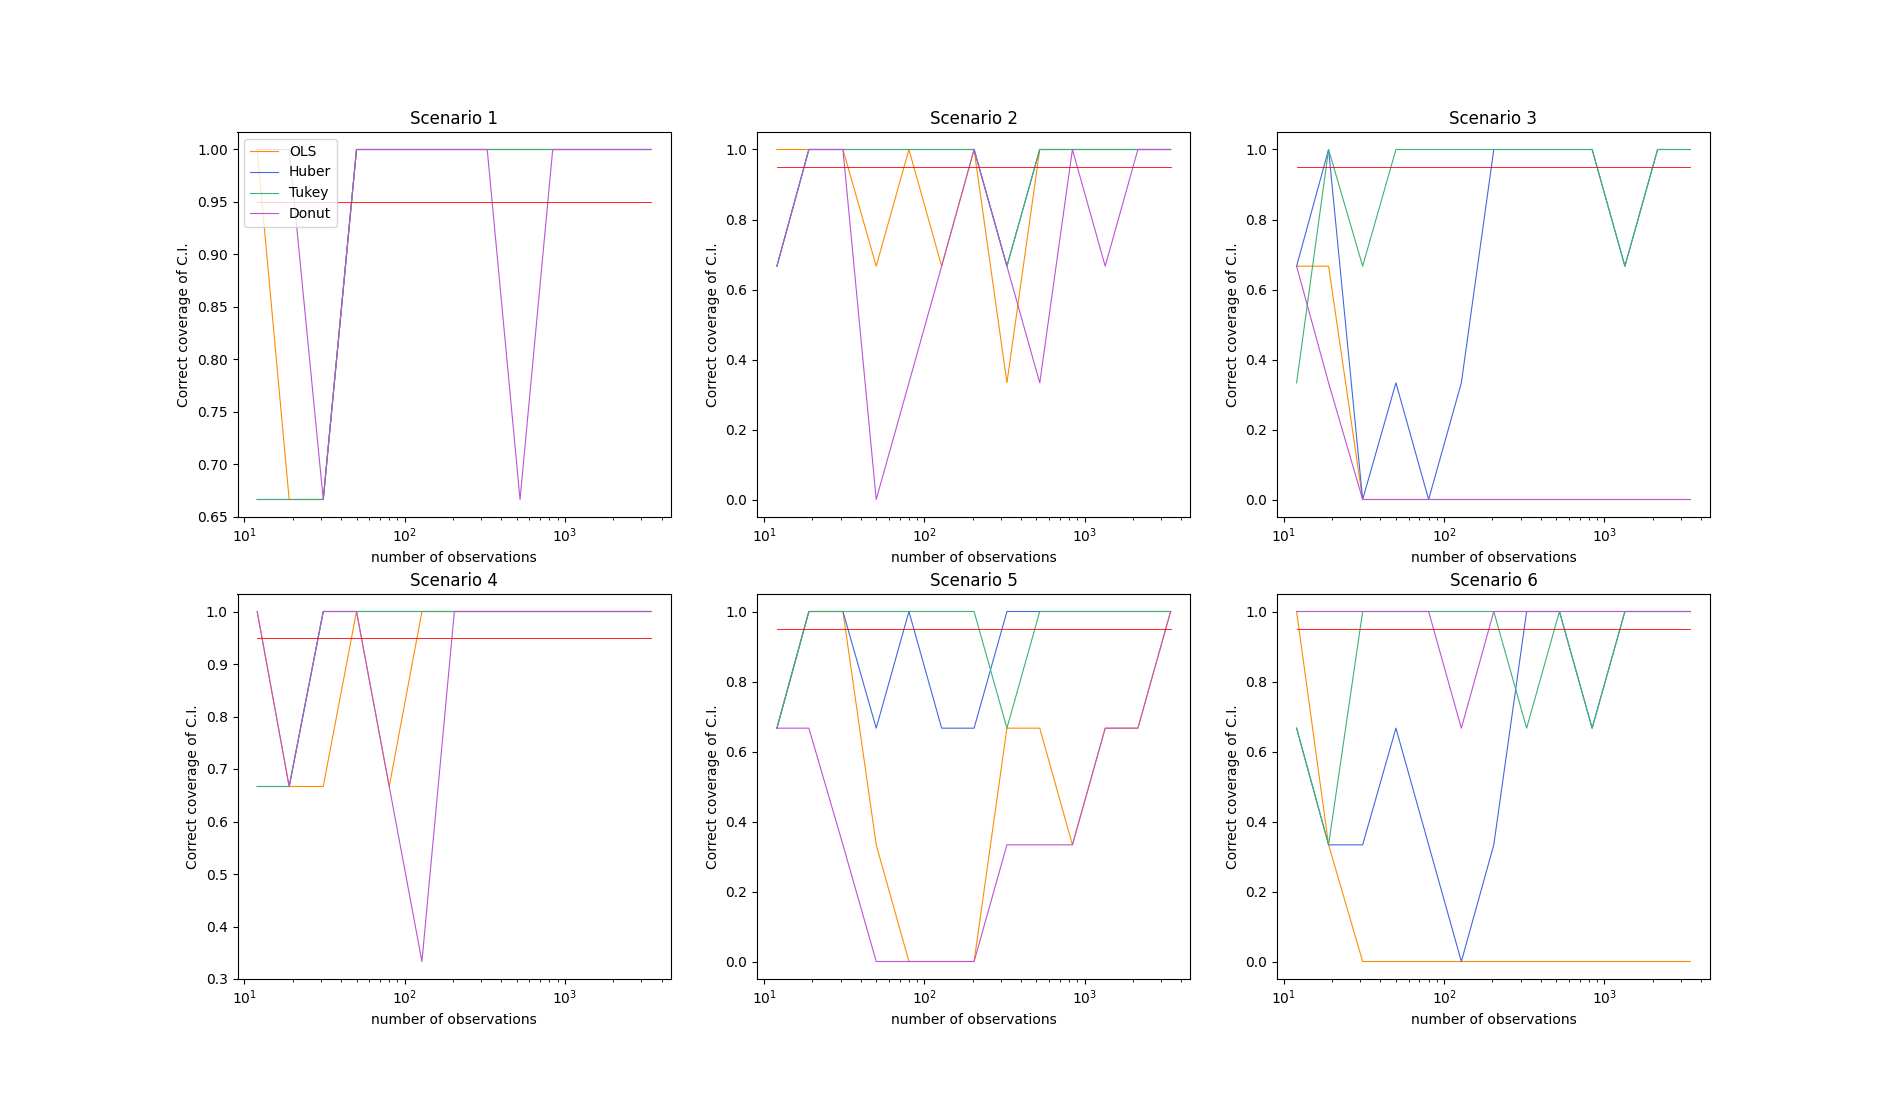
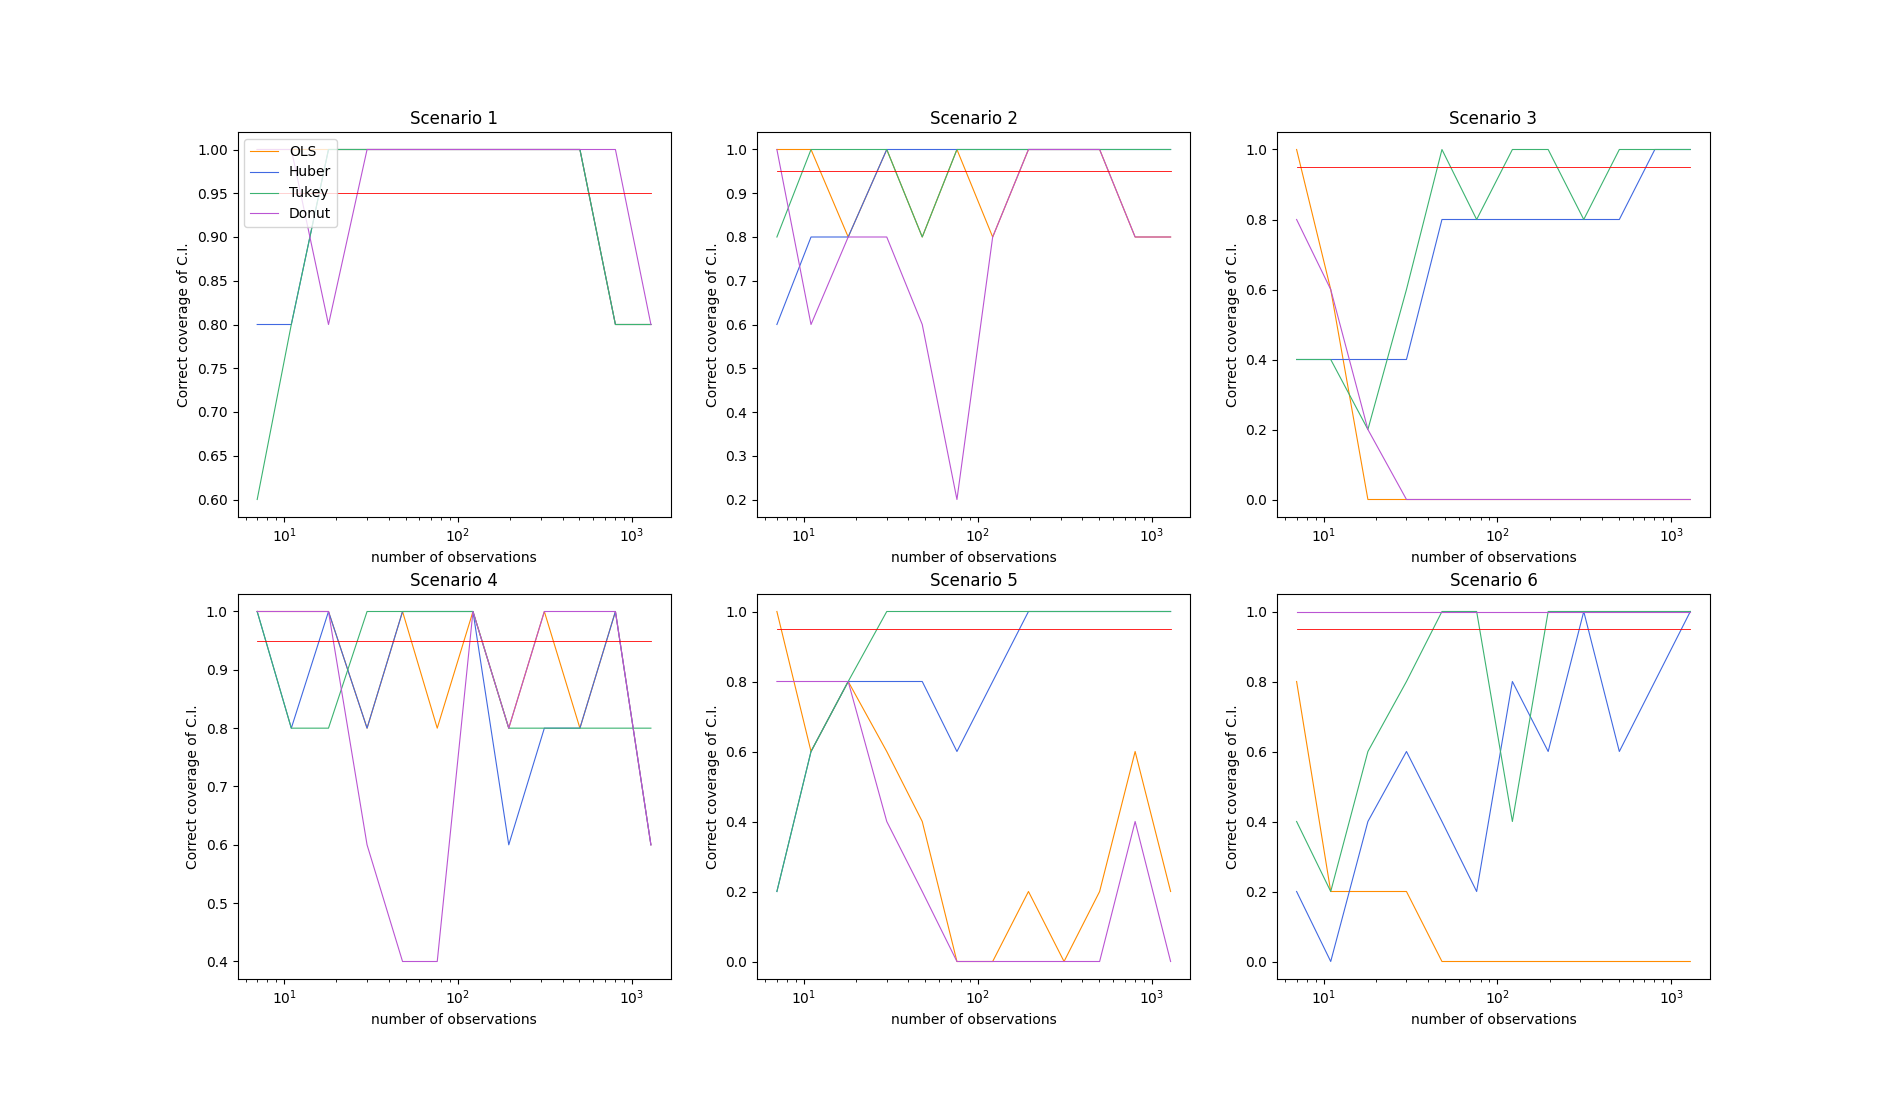
asymptotics now optional

diff --git a/src/simulation.py b/src/simulation.py
@@ -38,6 +38,7 @@ def powerSimulation(
     outlier=False,
     outlierMethod="",
     nOutliers=0,
+    computeAsymptotics=False,
 ):
     rejectionRate = [{}, {}, {}, {}]
     labels = ["OLS", "Huber", "Tukey", "Donut"]
@@ -47,25 +48,41 @@ def powerSimulation(
     for t in range(len(taus)):
         # If it is a tau of special interest do a simulation with detailed results
         if taus[t] in specialTau:
-            detailedResults[k] = asymptoticSimulation(
-                r,
-                nameSample,
-                n,
-                taus[t],
-                alpha,
-                beta,
-                cutoff=cutoff,
-                L=L,
-                b=b,
-                outlier=outlier,
-                outlierMethod=outlierMethod,
-                nOutliers=nOutliers,
-            )
+            if computeAsymptotics:
+                detailedResults[k] = asymptoticSimulation(
+                    r,
+                    nameSample,
+                    n,
+                    taus[t],
+                    alpha,
+                    beta,
+                    cutoff=cutoff,
+                    L=L,
+                    b=b,
+                    outlier=outlier,
+                    outlierMethod=outlierMethod,
+                    nOutliers=nOutliers,
+                )
+            else:
+                detailedResults[k] = simulationDetailed(
+                    r,
+                    nameSample,
+                    n,
+                    taus[t],
+                    alpha,
+                    beta,
+                    cutoff=cutoff,
+                    L=L,
+                    b=b,
+                    outlier=outlier,
+                    outlierMethod=outlierMethod,
+                    nOutliers=nOutliers,
+                )
             for m in range(4):
                 rejectionRate[m] = np.append(
                     rejectionRate[m], detailedResults[k][1][1][1][labels[m]].mean()
                 )
-            k=k+1
+            k = k + 1
 
         # If tau is not of special interest do a simulation that only record the power of t-test
         else:
@@ -121,10 +138,10 @@ def asymptoticSimulation(
         [{}, {}, {}, {}],
         [{}, {}, {}, {}],
     )
-    for k in range(13):
+    for k in range(12):
         n = int(nInit * np.power(1.6, k - 3))
         nRange = np.append(nRange, n)
-        pointEstimation_n, testValues_n, ciValues_n, firstSample_n = simulationDetailed(
+        pointEstimation_n, testValues_n, ciValues_n, firstSample_n, notUsed = simulationDetailed(
             r,
             nameSample,
             n,
@@ -275,7 +292,7 @@ def simulationDetailed(
     firstSample: DataFrame
         A dataframe object with the first sample generated.
     """
-    
+
     # Creat empty output arrays
     point = [{}, {}, {}, {}]
 
@@ -479,7 +496,7 @@ def simulationDetailed(
         i = i + 1
 
     # Return results
-    return pointEstimation, testValues, ciValues, firstSample
+    return pointEstimation, testValues, ciValues, firstSample, {}
 
 
 def simulations(r, name, n, tau, alpha, beta, cutoff=0, L=0, parametersScenarios=""):
@@ -617,7 +634,16 @@ def simulations(r, name, n, tau, alpha, beta, cutoff=0, L=0, parametersScenarios
 
 
 def powerSimulations(
-    r, nameSample, n, alpha, beta, cutoff=0, parametersScenarios="", specialTau=0
+    r,
+    nameSample,
+    n,
+    alpha,
+    beta,
+    cutoff=0,
+    parametersScenarios="",
+    specialTau=0,
+    computeAsymptotics=False,
+    prinToLatex=False,
 ):
     (
         scenario2_method,
@@ -637,7 +663,15 @@ def powerSimulations(
     taus = np.delete(taus, 0)
 
     rejectionRate1, detailedResults1 = powerSimulation(
-        taus, specialTau, r, nameSample, n, alpha, beta, cutoff=0
+        taus,
+        specialTau,
+        r,
+        nameSample,
+        n,
+        alpha,
+        beta,
+        cutoff=0,
+        computeAsymptotics=computeAsymptotics,
     )
 
     rejectionRate2, detailedResults2 = powerSimulation(
@@ -652,6 +686,7 @@ def powerSimulations(
         outlier=True,
         outlierMethod=scenario2_method,
         nOutliers=scenario2_num,
+        computeAsymptotics=computeAsymptotics,
     )
 
     rejectionRate3, detailedResults3 = powerSimulation(
@@ -666,6 +701,7 @@ def powerSimulations(
         outlier=True,
         outlierMethod=scenario3_method,
         nOutliers=scenario3_num,
+        computeAsymptotics=computeAsymptotics,
     )
 
     rejectionRate4, detailedResults4 = powerSimulation(
@@ -680,6 +716,7 @@ def powerSimulations(
         outlier=True,
         outlierMethod=scenario4_method,
         nOutliers=scenario4_num,
+        computeAsymptotics=computeAsymptotics,
     )
 
     rejectionRate5, detailedResults5 = powerSimulation(
@@ -694,6 +731,7 @@ def powerSimulations(
         outlier=True,
         outlierMethod=scenario5_method,
         nOutliers=scenario5_num,
+        computeAsymptotics=computeAsymptotics,
     )
 
     rejectionRate6, detailedResults6 = powerSimulation(
@@ -708,6 +746,7 @@ def powerSimulations(
         outlier=True,
         outlierMethod=scenario6_method,
         nOutliers=scenario6_num,
+        computeAsymptotics=computeAsymptotics,
     )
 
     for t in range(len(specialTau)):
@@ -756,20 +795,21 @@ def powerSimulations(
             testValues6,
         )
 
-        analyseSimResults(simResults, specialTau[t])
-        plotAsymptoticComparison(
-            specialTau[t],
-            (
-                asymp1,
-                asymp2,
-                asymp3,
-                asymp4,
-                asymp5,
-                asymp6,
-            ),
-            True,
-            "images/asymptotic",
-        )
+        analyseSimResults(simResults, specialTau[t], prinToLatex)
+        if computeAsymptotics:
+            plotAsymptoticComparison(
+                specialTau[t],
+                (
+                    asymp1,
+                    asymp2,
+                    asymp3,
+                    asymp4,
+                    asymp5,
+                    asymp6,
+                ),
+                True,
+                "images/asymptotic",
+            )
 
     plotPowerFunctionComparison(
         taus,

diff --git a/mainSim.py b/mainSim.py
@@ -1,9 +1,31 @@
-import src.exports as exp
-from src.simulation import simulations
+import numpy as np
+from src.simulation import powerSimulations
 
 
-r = 10
-n = 300
+r, n = 5, 30
+outlierScenarios = (
+    "Simple Outside Right",
+    1,
+    "Simple Oposite",
+    3,
+    "Simple Outside Left",
+    2,
+    "Simple Outside Right",
+    3,
+    "Simple Oposite Inside",
+    3,
+)
 
-results1, results2 = simulations(r,'Basic Linear',n,tau=2,alpha=-1,beta=1,cutoff=0)
-exp.toLatexTable(results1, results2,r,n)
+np.random.seed(123456)
+powerSimulations(
+    r,
+    "Basic Linear",
+    n,
+    alpha=0.5,
+    beta=1,
+    cutoff=0,
+    parametersScenarios=outlierScenarios,
+    specialTau=[-0.5,0],
+    computeAsymptotics=True,
+    prinToLatex=False
+)

diff --git a/dev.py b/dev.py
@@ -44,7 +44,7 @@ import numpy as np
 # simResults = sim.simulations(r, "Basic Linear", n, tau=-1, alpha=0.5, beta=1, cutoff=0)
 # met.analyseSimResults(simResults)
 
-r1, r2, n = 3, 10, 50
+r1, r2, n = 5, 10, 30
 outlierScenarios = (
     "Simple Outside Right",
     1,
@@ -68,6 +68,8 @@ sim.powerSimulations(
     cutoff=0,
     parametersScenarios=outlierScenarios,
     specialTau=[-0.5,0],
+    computeAsymptotics=True,
+    prinToLatex=False
 )
 ## sim.simulations(
 #    r2,
